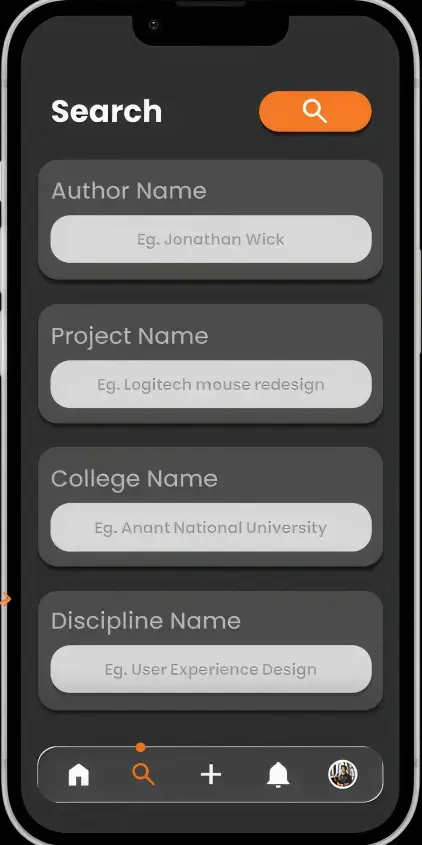
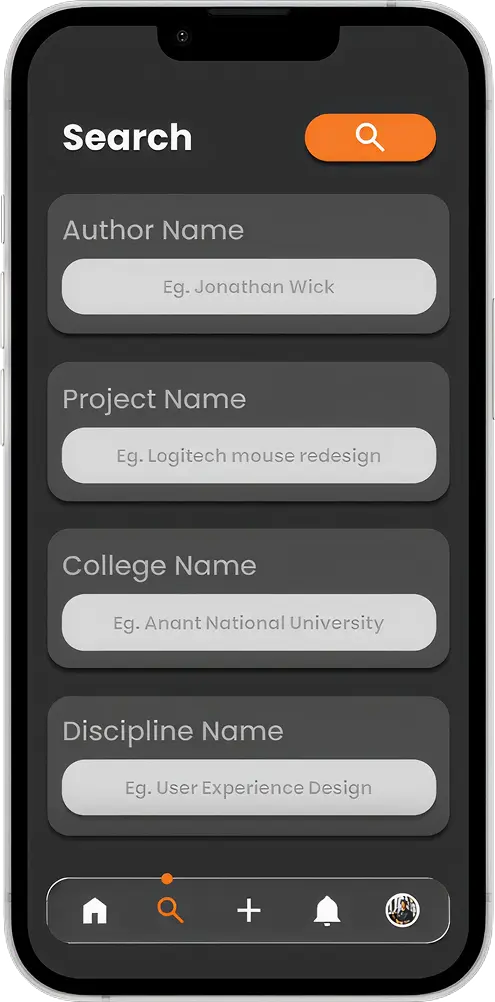
Replace Iterate search screen with real mockup, add search results screen
Claude-Session: https://claude.ai/code/session_01ABoxSrGLR5kJVAU4Q3hr6i

diff --git a/src/content/work/iterate.md b/src/content/work/iterate.md
@@ -188,7 +188,7 @@ Eight screens across onboarding and the core flow, each one answering a specific
 </figure>
 
 <figure class="figure--white">
-<ul class="screen-grid" style="grid-template-columns: repeat(2, 1fr)">
+<ul class="screen-grid">
 <li class="screen-item">
 <img src="/images/iterate/home.webp" alt="Iterate home feed showing Projects, Events, and Lists tabs with a curated gallery of student design work" />
 <p class="screen-caption">Home. Projects feed first, tagged in progress or complete so nobody mistakes a sketch for a finished pitch.</p>
@@ -196,6 +196,10 @@ Eight screens across onboarding and the core flow, each one answering a specific
 <li class="screen-item">
 <img src="/images/iterate/search.webp" alt="Iterate search screen with fields for author name, project name, college name, and discipline name" />
 <p class="screen-caption">Search. Filtered by discipline and college, not just keyword, so a student can find peers in their own field instead of scrolling a generic feed.</p>
+</li>
+<li class="screen-item">
+<img src="/images/iterate/search-results.webp" alt="Iterate search results screen with active filter chips for author, project, college, and discipline, plus a similar projects section" />
+<p class="screen-caption">Results stay tied to the filters that produced them, shown as chips, and surface similar projects underneath so a dead-end search still leads somewhere.</p>
 </li>
 </ul>
 </figure>
